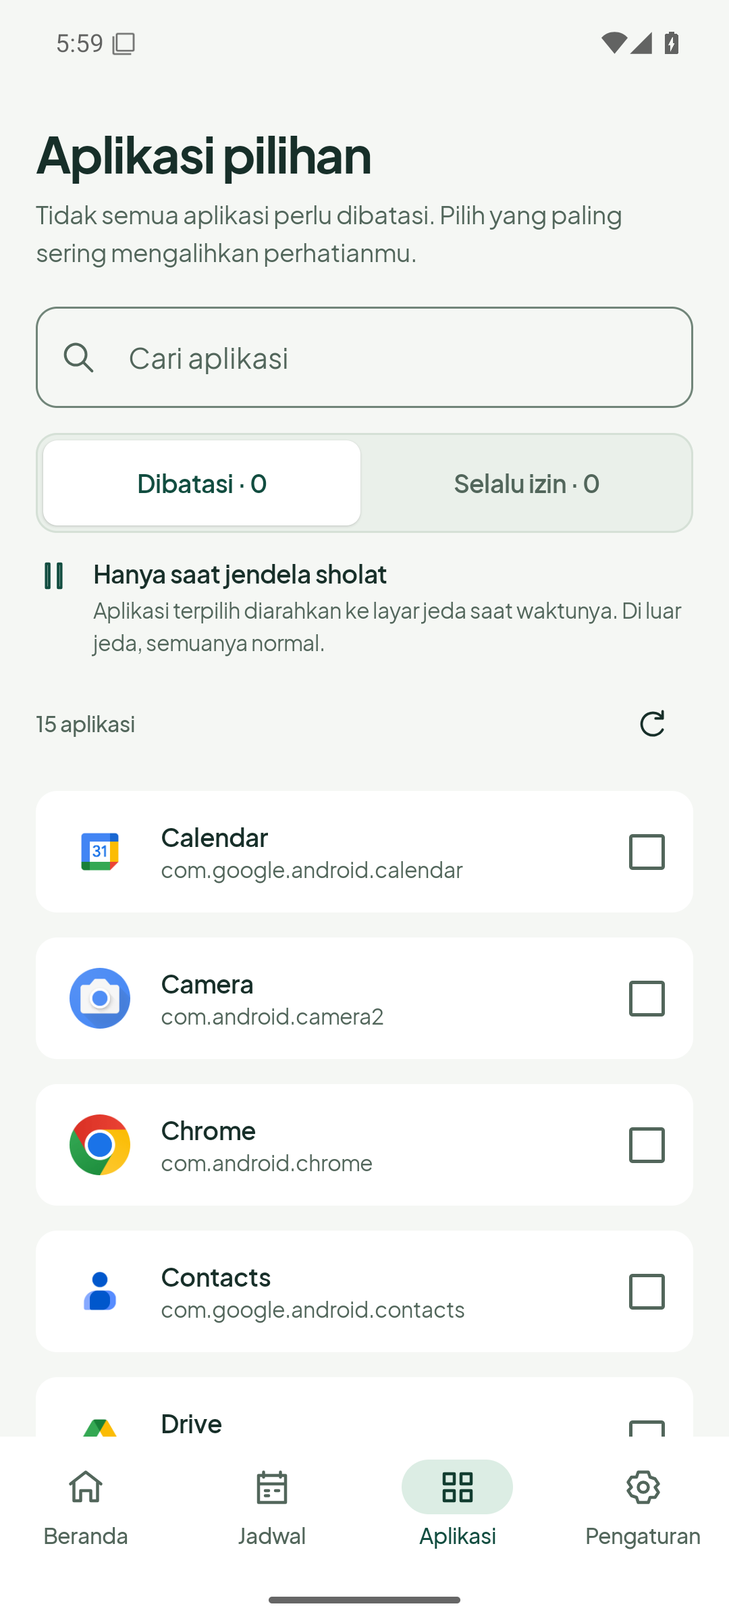
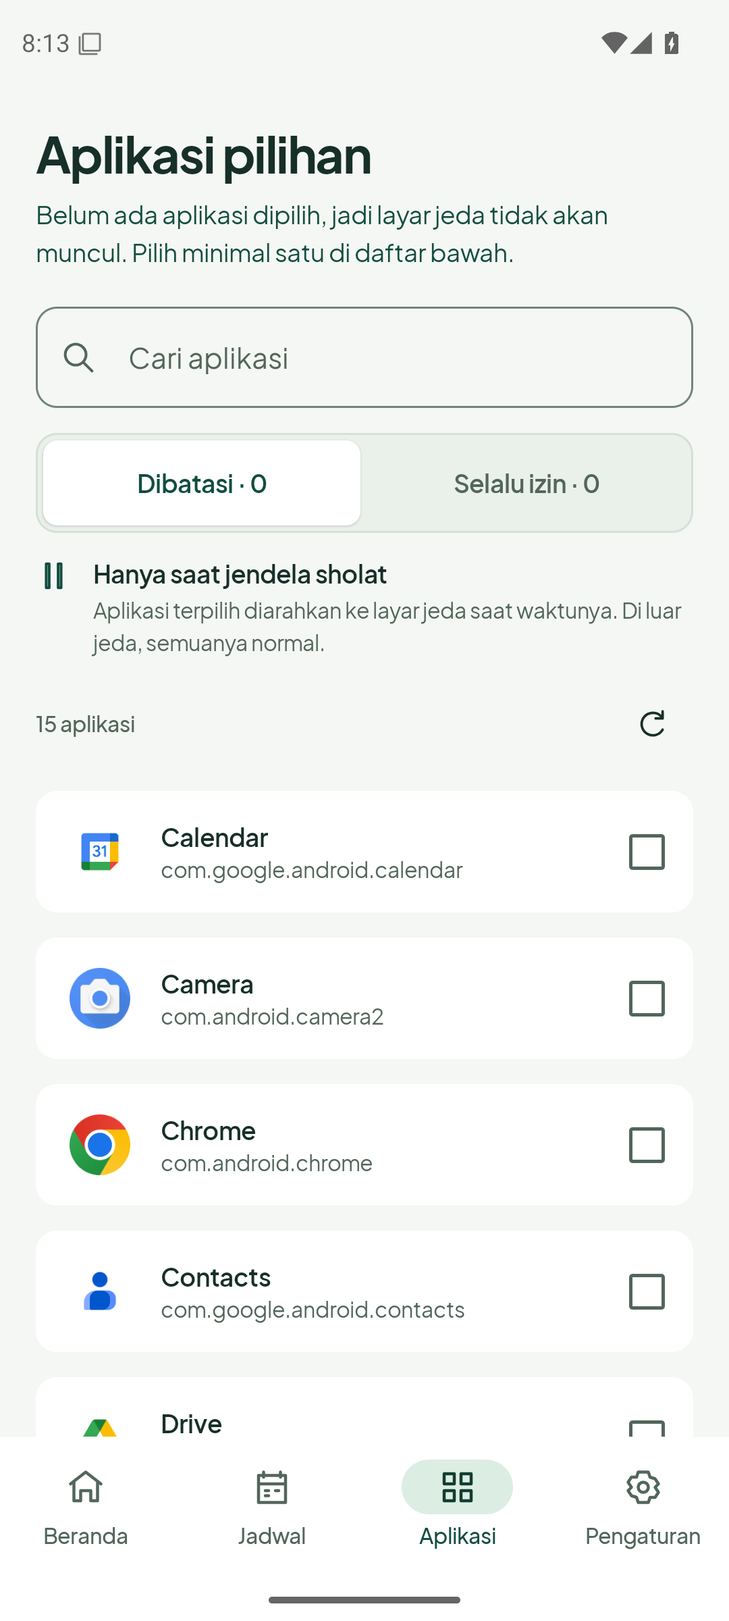
JedaSholat 0.3.1: honest per-step protection readiness (#11)
Readiness computed in core; home checklist, simulation gate, diagnostics sync.

Changed region(s): [[0.0306, 0.125, 0.8556, 0.1875], [0.0917, 0.0, 0.1833, 0.0312], [0.0306, 0.0, 0.0611, 0.0312]]

diff --git a/android/app/src/main/java/id/jedasholat/ui/screens/HomeScreen.kt b/android/app/src/main/java/id/jedasholat/ui/screens/HomeScreen.kt
@@ -153,26 +153,42 @@ import java.util.Locale
                     }
                 }
             } else {
-                val needsApps = s.selectedPackages.isEmpty()
+                val readiness = state.readiness
                 JedaCard(outlined = true) {
                     Row(horizontalArrangement = Arrangement.spacedBy(12.dp), verticalAlignment = Alignment.Top) {
                         JedaIcon(JedaGlyph.SHIELD, tint = MaterialTheme.colorScheme.primary)
                         Column(Modifier.weight(1f), verticalArrangement = Arrangement.spacedBy(4.dp)) {
-                            Text(if (!s.protectionEnabled) "Perlindungan sedang mati" else if (needsApps) "Pilih aplikasi yang ingin dijeda" else "Satu langkah lagi",
-                                style = MaterialTheme.typography.titleMedium)
-                            Text(when {
-                                !s.protectionEnabled -> "Jadwal tetap bisa dilihat. Aktifkan perlindungan saat kamu siap."
-                                needsApps -> "Tidak ada aplikasi yang dipilih otomatis. Telepon dan akses darurat tetap aman."
-                                !state.capabilities.accessibility || !s.accessibilityConsent -> "Layar jeda membutuhkan izin Layanan Aksesibilitas. Isi layar dan pesan tidak dibaca."
-                                !state.capabilities.accessibilityBound -> "Izin tercatat aktif, tetapi layanan belum tersambung. Buka Pengaturan → Aksesibilitas → JedaSholat, lalu matikan dan nyalakan lagi."
-                                else -> "Periksa izin perlindungan di pengaturan."
-                            }, style = MaterialTheme.typography.bodyMedium, color = MaterialTheme.colorScheme.onSurfaceVariant)
+                            Text(readiness.nextInfo.title, style = MaterialTheme.typography.titleMedium)
+                            Text(readiness.nextInfo.detail, style = MaterialTheme.typography.bodyMedium,
+                                color = MaterialTheme.colorScheme.onSurfaceVariant)
                         }
                     }
-                    Button(onClick = { navigate(if (needsApps && s.protectionEnabled) "apps" else "settings") }, modifier = Modifier.fillMaxWidth().heightIn(min = 48.dp)) {
-                        Text(if (needsApps && s.protectionEnabled) "Pilih aplikasi" else "Siapkan perlindungan")
+                    // The headline already names the blocking step, so the list only shows the rest.
+                    val others = readiness.steps.filter { it.step != ReadinessStep.READY && it.step != readiness.next }
+                    if (others.isNotEmpty()) Column(verticalArrangement = Arrangement.spacedBy(8.dp)) {
+                        others.forEach { step ->
+                            Row(verticalAlignment = Alignment.CenterVertically, horizontalArrangement = Arrangement.spacedBy(9.dp)) {
+                                JedaIcon(if (step.done) JedaGlyph.CHECK else JedaGlyph.MINUS,
+                                    tint = if (step.done) MaterialTheme.colorScheme.primary else MaterialTheme.colorScheme.onSurfaceVariant,
+                                    contentDescription = if (step.done) "${step.title}: selesai" else "${step.title}: belum",
+                                    modifier = Modifier.size(15.dp))
+                                Text(step.title, style = MaterialTheme.typography.bodySmall,
+                                    color = if (step.done) MaterialTheme.colorScheme.onSurfaceVariant else MaterialTheme.colorScheme.onSurface)
+                            }
+                        }
+                    }
+                    Button(onClick = {
+                        when (readiness.next) {
+                            ReadinessStep.PROTECTION -> vm.update { it.copy(protectionEnabled = true) }
+                            ReadinessStep.APPS -> navigate("apps")
+                            else -> navigate("settings")
+                        }
+                    }, modifier = Modifier.fillMaxWidth().heightIn(min = 48.dp)) {
+                        Text(readiness.nextInfo.action)
                         Spacer(Modifier.width(8.dp)); JedaIcon(JedaGlyph.ARROW, modifier = Modifier.size(18.dp))
                     }
+                    Text("${readiness.remaining} langkah tersisa sebelum jeda bisa tampil.",
+                        style = MaterialTheme.typography.bodySmall, color = MaterialTheme.colorScheme.onSurfaceVariant)
                 }
             }
         }

diff --git a/android/app/src/main/java/id/jedasholat/ui/screens/SettingsScreen.kt b/android/app/src/main/java/id/jedasholat/ui/screens/SettingsScreen.kt
@@ -113,7 +113,8 @@ import id.jedasholat.ui.*
                 diagnostics.enabledInSettings -> "Izin tercatat aktif, tetapi layanan belum tersambung. Matikan lalu nyalakan lagi izin JedaSholat di Aksesibilitas Android."
                 else -> "Layanan belum aktif."
             }, style = MaterialTheme.typography.bodyMedium)
-            Text("Aplikasi terdeteksi: ${diagnostics.foreground.ifBlank { "belum ada" }}\nKeputusan terakhir: ${diagnostics.lastDecision.ifBlank { "belum ada" }}\nAlasan sembunyi: ${diagnostics.lastHideReason.ifBlank { "belum ada" }}",
+            Text("Langkah berikutnya: ${if (state.ready) "semua siap" else state.readiness.nextInfo.title.lowercase()}\n" +
+                "Aplikasi terdeteksi: ${diagnostics.foreground.ifBlank { "belum ada" }}\nKeputusan terakhir: ${diagnostics.lastDecision.ifBlank { "belum ada" }}\nAlasan sembunyi: ${diagnostics.lastHideReason.ifBlank { "belum ada" }}",
                 style = MaterialTheme.typography.bodySmall, color = MaterialTheme.colorScheme.onSurfaceVariant)
             if (diagnostics.lastError.isNotBlank()) Text("Error terakhir: ${diagnostics.lastError}", style = MaterialTheme.typography.bodySmall, color = MaterialTheme.colorScheme.error)
             OutlinedButton(onClick = {
@@ -138,14 +139,15 @@ import id.jedasholat.ui.*
         item { JedaCard(outlined = true) {
             SectionTitle("Coba tanpa menunggu sholat", "Simulasi 30 detik memakai layar jeda asli pada aplikasi pilihanmu. Jadwal sholat tidak berubah.")
             Row(horizontalArrangement = Arrangement.spacedBy(10.dp)) {
-                Button(onClick = { vm.simulate(Mode.PENGINGAT) }, modifier = Modifier.weight(1f).heightIn(min = 52.dp)) {
+                Button(onClick = { vm.simulate(Mode.PENGINGAT) }, enabled = state.ready, modifier = Modifier.weight(1f).heightIn(min = 52.dp)) {
                     JedaIcon(JedaGlyph.PLAY, modifier = Modifier.size(17.dp)); Spacer(Modifier.width(6.dp)); Text("Pengingat")
                 }
-                OutlinedButton(onClick = { vm.simulate(Mode.TEGAS) }, modifier = Modifier.weight(1f).heightIn(min = 52.dp)) {
+                OutlinedButton(onClick = { vm.simulate(Mode.TEGAS) }, enabled = state.ready, modifier = Modifier.weight(1f).heightIn(min = 52.dp)) {
                     JedaIcon(JedaGlyph.LOCK, modifier = Modifier.size(17.dp)); Spacer(Modifier.width(6.dp)); Text("Tegas")
                 }
             }
-            Text(if (state.ready) "Setelah menekan coba, buka aplikasi yang dipilih. Telepon dan layar utama tetap tersedia." else "Butuh aplikasi terpilih, perlindungan aktif, dan izin Layanan Aksesibilitas.",
+            Text(if (state.ready) "Setelah menekan coba, buka aplikasi yang dipilih. Telepon dan layar utama tetap tersedia."
+                else "Belum bisa dipakai: ${state.readiness.nextInfo.title.lowercase()}. ${state.readiness.nextInfo.detail}",
                 style = MaterialTheme.typography.bodySmall, color = MaterialTheme.colorScheme.onSurfaceVariant)
         } }
         item { JedaCard {
@@ -172,7 +174,7 @@ import id.jedasholat.ui.*
             SectionTitle("Data & privasi", "Tanpa akun, iklan, analytics, atau izin internet.")
             OutlinedButton(onClick = { confirm = "history" }, modifier = Modifier.fillMaxWidth().heightIn(min = 48.dp)) { JedaIcon(JedaGlyph.TRASH, modifier = Modifier.size(18.dp)); Spacer(Modifier.width(8.dp)); Text("Hapus riwayat") }
             TextButton(onClick = { confirm = "all" }, modifier = Modifier.fillMaxWidth().heightIn(min = 48.dp), colors = ButtonDefaults.textButtonColors(contentColor = MaterialTheme.colorScheme.error)) { Text("Hapus seluruh data lokal") }
-            Text("JedaSholat 0.3.0 · Android\nAdhan oleh Batoul Apps, lisensi MIT.\nPlus Jakarta Sans, lisensi SIL OFL.\nIzin aksesibilitas dapat dicabut kapan saja di Pengaturan Android.",
+            Text("JedaSholat 0.3.1 · Android\nAdhan oleh Batoul Apps, lisensi MIT.\nPlus Jakarta Sans, lisensi SIL OFL.\nIzin aksesibilitas dapat dicabut kapan saja di Pengaturan Android.",
                 style = MaterialTheme.typography.bodySmall, color = MaterialTheme.colorScheme.onSurfaceVariant)
         } }
     }

diff --git a/android/core/src/main/kotlin/id/jedasholat/core/Readiness.kt b/android/core/src/main/kotlin/id/jedasholat/core/Readiness.kt
@@ -1,0 +1,88 @@
+package id.jedasholat.core
+
+/**
+ * Ordered setup checklist for enforcement. The first unfinished step is the only thing the
+ * UI needs to ask for, so a user never sees "protection is on" while zero apps are selected.
+ */
+enum class ReadinessStep { PROTECTION, APPS, CONSENT, ACCESSIBILITY, SERVICE, READY }
+
+data class ReadinessStepInfo(
+    val step: ReadinessStep,
+    val done: Boolean,
+    val title: String,
+    val detail: String,
+    val action: String,
+)
+
+data class Readiness(
+    val steps: List<ReadinessStepInfo>,
+    val next: ReadinessStep,
+) {
+    val ready: Boolean get() = next == ReadinessStep.READY
+    val nextInfo: ReadinessStepInfo get() = steps.first { it.step == next }
+    val remaining: Int get() = steps.count { !it.done }
+}
+
+object ReadinessGuide {
+    /**
+     * [capabilities.accessibilityBound] is the real service connection state, not just the
+     * settings toggle, because an enabled-but-unbound service never shows the overlay.
+     */
+    fun assess(settings: Settings, capabilities: Capabilities): Readiness = assess(
+        protectionEnabled = settings.protectionEnabled,
+        selectedCount = settings.selectedPackages.size,
+        accessibilityConsent = settings.accessibilityConsent,
+        accessibilityEnabled = capabilities.accessibility,
+        serviceBound = capabilities.accessibilityBound,
+    )
+
+    /** Primitive overload so diagnostics can describe state without fabricating a settings object. */
+    fun assess(
+        protectionEnabled: Boolean,
+        selectedCount: Int,
+        accessibilityConsent: Boolean,
+        accessibilityEnabled: Boolean,
+        serviceBound: Boolean,
+    ): Readiness {
+        val steps = listOf(
+            ReadinessStepInfo(
+                ReadinessStep.PROTECTION, protectionEnabled,
+                "Perlindungan masih mati",
+                "Jadwal tetap tersimpan. Nyalakan perlindungan saat kamu siap menjeda aplikasi.",
+                "Nyalakan perlindungan",
+            ),
+            ReadinessStepInfo(
+                ReadinessStep.APPS, selectedCount > 0,
+                "Belum ada aplikasi dipilih",
+                "Tidak ada aplikasi yang dipilih otomatis, jadi belum ada yang dijeda. Telepon, Pengaturan, dan akses darurat tetap aman.",
+                "Pilih aplikasi",
+            ),
+            ReadinessStepInfo(
+                ReadinessStep.CONSENT, accessibilityConsent,
+                "Persetujuan layar jeda",
+                "Layar jeda butuh Layanan Aksesibilitas. JedaSholat hanya membaca nama paket aplikasi yang terbuka, bukan isi layar atau ketikan.",
+                "Baca & setujui",
+            ),
+            ReadinessStepInfo(
+                ReadinessStep.ACCESSIBILITY, accessibilityEnabled,
+                "Izin aksesibilitas belum aktif",
+                "Aktifkan JedaSholat di Pengaturan Android → Aksesibilitas, lalu kembali ke aplikasi ini.",
+                "Buka Aksesibilitas",
+            ),
+            ReadinessStepInfo(
+                ReadinessStep.SERVICE, serviceBound,
+                "Layanan belum tersambung",
+                "Izin tercatat aktif, tetapi layanan belum tersambung. Matikan lalu nyalakan lagi izin JedaSholat di Aksesibilitas Android.",
+                "Buka Aksesibilitas",
+            ),
+            ReadinessStepInfo(
+                ReadinessStep.READY, true,
+                "Perlindungan siap",
+                "Hanya aplikasi pilihanmu yang dijeda saat jendela sholat aktif. Di luar itu semua tetap bebas.",
+                "",
+            ),
+        )
+        val next = steps.firstOrNull { !it.done }?.step ?: ReadinessStep.READY
+        return Readiness(steps, next)
+    }
+}

diff --git a/android/core/src/test/kotlin/id/jedasholat/core/DomainChecks.kt b/android/core/src/test/kotlin/id/jedasholat/core/DomainChecks.kt
@@ -123,6 +123,39 @@ object DomainChecks {
             require(events.size == 96)
             require(events == events.sortedWith(compareBy({ it.time }, { it.kind })))
         }
+        // 0.3.1 readiness: "everything on" must still not look ready when nothing is selected.
+        val allGranted = Capabilities(accessibility = true, exactAlarms = true, notifications = true, usageAccess = true, accessibilityBound = true)
+        check("readiness asks for apps when nothing selected") {
+            val r = ReadinessGuide.assess(settings.copy(selectedPackages = emptySet()), allGranted)
+            require(r.next == ReadinessStep.APPS); require(!r.ready); require(r.remaining == 1)
+            require(!r.steps.first { it.step == ReadinessStep.APPS }.done)
+        }
+        check("readiness ready only when every step done") {
+            require(ReadinessGuide.assess(settings, allGranted).ready)
+        }
+        check("readiness protection comes first") {
+            val r = ReadinessGuide.assess(Settings(), Capabilities())
+            require(r.next == ReadinessStep.PROTECTION)
+            require(r.nextInfo.action.isNotBlank())
+            require(r.remaining == 5)
+        }
+        check("readiness separates consent from bound service") {
+            val r = ReadinessGuide.assess(settings.copy(accessibilityConsent = false), allGranted)
+            require(r.next == ReadinessStep.CONSENT)
+        }
+        check("readiness detects enabled but unbound service") {
+            val r = ReadinessGuide.assess(settings, allGranted.copy(accessibility = true, accessibilityBound = false))
+            require(r.next == ReadinessStep.SERVICE); require(r.nextInfo.detail.contains("belum tersambung"))
+        }
+        check("readiness never marks service done without permission") {
+            val r = ReadinessGuide.assess(settings, allGranted.copy(accessibility = false, accessibilityBound = false))
+            require(r.next == ReadinessStep.ACCESSIBILITY)
+        }
+        check("readiness steps stay in fixed order") {
+            val order = ReadinessGuide.assess(Settings(), Capabilities()).steps.map { it.step }
+            require(order == listOf(ReadinessStep.PROTECTION, ReadinessStep.APPS, ReadinessStep.CONSENT,
+                ReadinessStep.ACCESSIBILITY, ReadinessStep.SERVICE, ReadinessStep.READY))
+        }
         return count
     }
 }

diff --git a/install/index.html b/install/index.html
@@ -37,7 +37,7 @@ code{background:#efe8d8;padding:2px 6px;border-radius:6px}
 <div class="wrap">
 <header><img class="logo" src="./favicon.svg" alt="" width="46" height="46"/><div><strong>JedaSholat</strong><div class="note">Beri ruang untuk yang utama.</div></div></header>
 <section class="hero">
-<span class="pill">Android 10+ · versi 0.3.0</span>
+<span class="pill">Android 10+ · versi 0.3.1</span>
 <h1>Jeda lebih rapi.<br/>Install langsung dari web.</h1>
 <p>Tanpa Play Store. Tanpa login GitHub. Cukup unduh APK, pasang, lalu pilih aplikasi yang mau dijeda saat waktu sholat.</p>
 <p><a class="btn" id="installBtn" href="https://github.com/pratamadamar1305-dev/Almar-IQ-/releases/download/jedasholat-debug/JedaSholat-debug.apk" download>⬇ Download &amp; Install APK</a></p>
@@ -59,12 +59,13 @@ code{background:#efe8d8;padding:2px 6px;border-radius:6px}
 <li>Hanya aplikasi yang kamu pilih yang dibatasi. Telepon, darurat, Settings, dan layar utama tetap bisa diakses.</li>
 <li>Mode Tegas bukan anti-bypass. Izin Android tetap bisa dicabut kapan saja.</li>
 <li>Ini APK debug, bukan rilis Play Store. Sumbernya resmi dari repo JedaSholat.</li>
+<li>Versi 0.3.1 membuat status perlindungan jujur per langkah: perlindungan, aplikasi terpilih, persetujuan, izin, dan layanan tersambung. Tombol simulasi mati sampai semua siap, jadi tidak ada lagi “perlindungan aktif” padahal belum ada aplikasi dipilih.</li>
 <li>Versi 0.3.0 merapikan beranda, jadwal, dan status perlindungan; memperbaiki alarm per sesi, pemulihan jadwal yang diaktifkan lagi, pengingat yang ditutup, serta data lokasi/aturan yang rusak. Jika layar jeda masih hilang, salin diagnosis di Pengaturan aplikasi.</li>
 </ul>
 <p><a class="btn secondary" href="https://github.com/pratamadamar1305-dev/Almar-IQ-/releases/download/jedasholat-debug/JedaSholat-debug.apk.sha256">Checksum APK</a></p>
 <p><a class="btn secondary" href="https://github.com/pratamadamar1305-dev/Almar-IQ-/releases/tag/jedasholat-debug">Lihat rilis</a></p>
 </section>
-<footer>JedaSholat 0.3.0 · jadwal dihitung offline · bukan jadwal resmi Kemenag · tanpa akun/iklan/pelacakan.</footer>
+<footer>JedaSholat 0.3.1 · jadwal dihitung offline · bukan jadwal resmi Kemenag · tanpa akun/iklan/pelacakan.</footer>
 </div>
 <script>
 const ua=navigator.userAgent||'';

diff --git a/android/app/src/main/java/id/jedasholat/ui/JedaViewModel.kt b/android/app/src/main/java/id/jedasholat/ui/JedaViewModel.kt
@@ -31,8 +31,8 @@ data class UiState(
     val snoozed: List<Session> get() = sessions.filter {
         it.status == SessionStatus.SNOOZED && now < (it.snoozedUntil ?: Long.MAX_VALUE) && now < it.end
     }
-    val ready: Boolean get() = settings.protectionEnabled && settings.accessibilityConsent &&
-        capabilities.accessibility && capabilities.accessibilityBound && settings.selectedPackages.isNotEmpty()
+    val readiness: Readiness get() = ReadinessGuide.assess(settings, capabilities)
+    val ready: Boolean get() = readiness.ready
 }
 
 private data class ScheduleSnapshot(val windows: List<PrayerWindow> = emptyList(), val error: String? = null)
@@ -77,6 +77,17 @@ class JedaViewModel(app: Application) : AndroidViewModel(app) {
 
     init {
         refresh()
+        viewModelScope.launch {
+            container.settings.settings.collect { settings ->
+                EnforcementDiagnostics.update {
+                    it.copy(
+                        protectionEnabled = settings.protectionEnabled,
+                        accessibilityConsent = settings.accessibilityConsent,
+                        selectedCount = settings.selectedPackages.size,
+                    )
+                }
+            }
+        }
         viewModelScope.launch {
             while (true) {
                 extra.update { it.copy(now = System.currentTimeMillis()) }

diff --git a/android/app/src/main/java/id/jedasholat/domain/EnforcementDiagnostics.kt b/android/app/src/main/java/id/jedasholat/domain/EnforcementDiagnostics.kt
@@ -1,5 +1,6 @@
 package id.jedasholat.domain
 
+import id.jedasholat.core.ReadinessGuide
 import kotlinx.coroutines.flow.MutableStateFlow
 import kotlinx.coroutines.flow.StateFlow
 import kotlinx.coroutines.flow.asStateFlow
@@ -64,6 +65,14 @@ object EnforcementDiagnostics {
             appendLine("lastDecision=${s.lastDecision} lastHideReason=${s.lastHideReason}")
             appendLine("lastError=${s.lastError}")
             appendLine("lastReconcileAt=${s.lastReconcileAt} lastUsagePollAt=${s.lastUsagePollAt}")
+            val readiness = ReadinessGuide.assess(
+                protectionEnabled = s.protectionEnabled,
+                selectedCount = s.selectedCount,
+                accessibilityConsent = s.accessibilityConsent,
+                accessibilityEnabled = s.enabledInSettings,
+                serviceBound = s.serviceBound,
+            )
+            appendLine("readiness=${readiness.next.name} pending=${readiness.remaining}")
             appendLine("events:")
             s.events.forEach { appendLine(it) }
         }

diff --git a/android/app/src/main/java/id/jedasholat/ui/screens/AppsScreen.kt b/android/app/src/main/java/id/jedasholat/ui/screens/AppsScreen.kt
@@ -35,8 +35,11 @@ import id.jedasholat.ui.*
         item {
             Column(verticalArrangement = Arrangement.spacedBy(8.dp)) {
                 Text("Aplikasi pilihan", style = MaterialTheme.typography.headlineMedium)
-                Text("Tidak semua aplikasi perlu dibatasi. Pilih yang paling sering mengalihkan perhatianmu.",
-                    style = MaterialTheme.typography.bodyMedium, color = MaterialTheme.colorScheme.onSurfaceVariant)
+                Text(if (s.selectedPackages.isEmpty())
+                        "Belum ada aplikasi dipilih, jadi layar jeda tidak akan muncul. Pilih minimal satu di daftar bawah."
+                    else "${s.selectedPackages.size} aplikasi dijeda saat jendela sholat aktif. Tidak semua aplikasi perlu dibatasi.",
+                    style = MaterialTheme.typography.bodyMedium,
+                    color = if (s.selectedPackages.isEmpty()) MaterialTheme.colorScheme.primary else MaterialTheme.colorScheme.onSurfaceVariant)
             }
         }
         item {

diff --git a/docs/DEVICE_TEST_CHECKLIST.md b/docs/DEVICE_TEST_CHECKLIST.md
@@ -7,7 +7,7 @@ Gunakan APK debug dari artefak CI `JedaSholat-debug` atau build lokal. Catat mer
 | Perangkat | Android | Fokus | Status |
 |---|---:|---|---|
 | Emulator CI Pixel 6, Android 15 | 35 | overlay selected/unselected, strict auto-unlock, snooze persisten | advisory; binding izin CI belum stabil |
-| Nubia Neo 2 5G (MyOS) | 14/15 | overlay hilang saat SystemUI/IME/recents, autostart, Game Space, battery unrestricted | dilaporkan pengguna; perlu verifikasi 0.3.0 |
+| Nubia Neo 2 5G (MyOS) | 14/15 | overlay hilang saat SystemUI/IME/recents, autostart, Game Space, battery unrestricted | dilaporkan pengguna; log pengguna menunjukkan `selected=0` sehingga overlay wajar tidak muncul; perlu verifikasi 0.3.1 |
 | Samsung Galaxy (One UI) | 13/14/15 | battery manager, restricted settings, exact alarm | perlu perangkat |
 | Xiaomi/POCO (HyperOS/MIUI) | 13/14/15 | autostart, battery saver, overlay/accessibility survival | perlu perangkat |
 | OPPO/realme/vivo | 13/14/15 | OEM background limits, permission revocation | perlu perangkat |
@@ -28,6 +28,7 @@ Gunakan APK debug dari artefak CI `JedaSholat-debug` atau build lokal. Catat mer
 - [ ] Tepat sebelum start: belum ada overlay. Tepat pada start: overlay muncul pada aplikasi pilihan yang sudah terbuka maupun yang baru dibuka.
 - [ ] Saat overlay tampil: tarik notification shade, buka recents, munculkan keyboard/dialog, kembali ke aplikasi pilihan; overlay harus tetap/tampil lagi tanpa membuka JedaSholat.
 - [ ] Izin aksesibilitas tercatat aktif tetapi layanan belum tersambung: UI menampilkan peringatan dan simulasi menolak sampai layanan benar-benar bound.
+- [ ] Belum ada aplikasi dipilih: beranda menyebut “Belum ada aplikasi dipilih”, tombol simulasi nonaktif, dan diagnosis menulis `readiness=APPS pending=1`.
 - [ ] Alarm exact dicabut/OEM menunda alarm: sesi tetap mulai saat ticker layanan merekonsiliasi batas waktu (catat keterlambatan aktual).
 - [ ] Aplikasi tidak dipilih dan whitelist tidak pernah ditutup.
 - [ ] Telepon/darurat, Home, Settings, pencabutan izin, dan uninstall tetap dapat diakses saat Mode Tegas.

diff --git a/docs/JedaSholat.md b/docs/JedaSholat.md
@@ -7,6 +7,7 @@ JedaSholat membatasi **hanya aplikasi yang dipilih pengguna** selama jendela wak
 - `android/`: aplikasi native Kotlin + Jetpack Compose, `applicationId id.jedasholat.app`, minSdk 29, target/compileSdk 35.
 - `preview/`: pratinjau web interaktif untuk mencoba UI dan simulasi. Browser **tidak** memblokir aplikasi Android.
 - Proyek Dojo Tarung yang sudah ada di `app/` tidak diubah.
+- Versi 0.3.1 membuat status kesiapan perlindungan dihitung di core (`ReadinessGuide`): perlindungan → aplikasi terpilih → persetujuan → izin aksesibilitas → layanan tersambung. Beranda menampilkan langkah yang belum selesai beserta satu tombol aksi, tombol simulasi mati sampai semua siap, dan diagnosis menyertakan baris `readiness=`/`pending=`. Ini menutup kasus “perlindungan aktif” padahal belum ada aplikasi dipilih sehingga overlay memang tidak pernah muncul.
 - Versi 0.3.0 memperluas perbaikan: alarm per sesi dengan kapasitas lebih besar, pemulihan sesi yang dibatalkan karena perubahan jadwal lalu diaktifkan lagi, pengingat ditutup yang persisten, sanitasi preferensi rusak, pemuatan aplikasi di latar belakang, pruning aplikasi ter-uninstall, status snooze yang tidak lagi disebut berjalan, dan query paket Home/Alarm. UI beranda memakai ring hitung mundur, ringkasan hari ini, timeline jadwal, dan palet hero yang mengikuti terang/gelap.
 - Debug APK dihasilkan workflow **Build JedaSholat Android** dan dipublikasikan ke release bergulir `jedasholat-debug` setelah build dan smoke test UI lulus. Halaman install: `https://pratamadamar1305-dev.github.io/Almar-IQ-/jedasholat/`. APK debug bukan rilis Play Store dan belum ditandatangani dengan kunci rilis.
 - Job `ui` menjalankan `UiSmokeTest` pada emulator Android 15 dan mengunggah screenshot native. Job `instrumented` untuk enforcement tetap advisory.

diff --git a/docs/design/UI-Refresh.md b/docs/design/UI-Refresh.md
@@ -49,3 +49,11 @@ Compose/Android resources are compiled and linted in CI. Native UI smoke tests c
 - Daftar aplikasi memiliki state memuat yang eksplisit dan tombol segarkan yang tidak bisa dipukul berulang saat loading.
 - Status Perlindungan tetap membedakan izin tercatat aktif vs layanan benar-benar tersambung; simulasi menolak bila layanan belum bound.
 - Tetap memakai Plus Jakarta Sans, ikon stroke original, target sentuh >=48dp, dan label navigasi selalu terlihat.
+
+## 0.3.1 — kesiapan perlindungan ditampilkan per langkah
+
+- Sumber kebenaran baru di core: `ReadinessGuide.assess(...)` mengembalikan enam langkah berurutan (perlindungan → aplikasi terpilih → persetujuan → izin aksesibilitas → layanan tersambung → siap).
+- Beranda tidak lagi memakai satu kalimat tebakan. Kartu menampilkan judul langkah yang benar-benar menghambat, checklist lima langkah dengan tanda selesai/belum, satu tombol aksi yang langsung mengerjakan langkah tersebut, dan sisa langkah.
+- Tab Aplikasi menyebut akibat dari nol pilihan: "layar jeda tidak akan muncul".
+- Pengaturan menonaktifkan tombol simulasi sampai kesiapan penuh dan menjelaskan penyebabnya di tempat yang sama; diagnosis menambahkan baris `readiness=`/`pending=`.
+- Token hero tetap memakai `LocalJedaHero` (nama di catatan 0.3.0 sebelumnya kurang tepat), dan salinan `Settings` di layar Pengaturan tetap hanya membaca state.
